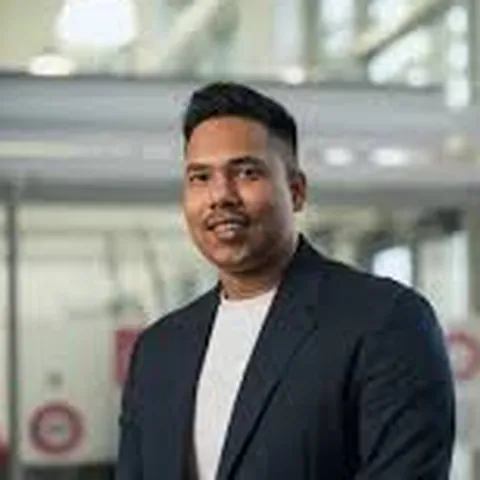
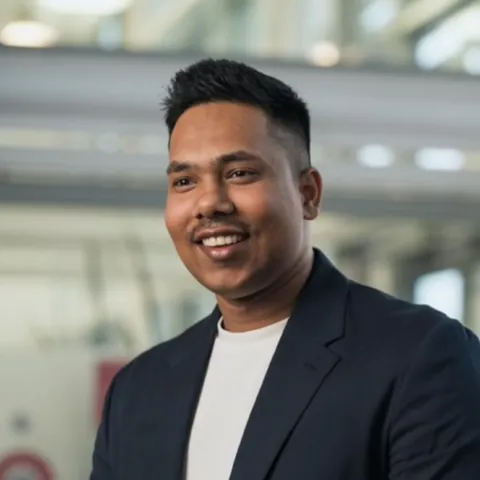
About page: new tagline, drop industrial street, sharper Alom photo
Claude-Session: https://claude.ai/code/session_019mX7vV7EdFEzaZUFbazYDR

diff --git a/src/routes/about.tsx b/src/routes/about.tsx
@@ -8,13 +8,13 @@ export const Route = createFileRoute("/about")({
       {
         name: "description",
         content:
-          "Sentinel Vero started in 2025 on an industrial street in Caerphilly. Meet Joc, Alom, Fabrizio and Cai, the team building operational software for fire and security businesses.",
+          "Sentinel Vero started in 2025 in Caerphilly. Meet Joc, Alom, Fabrizio and Cai, the team building operational software for fire and security businesses.",
       },
       { property: "og:title", content: "Our story | Sentinel Vero" },
       {
         property: "og:description",
         content:
-          "Four people, one industrial street in Caerphilly, and a live fire and security business to test every idea against.",
+          "Four people in Caerphilly, one solution, and a live fire and security business to test every idea against.",
       },
       { property: "og:type", content: "website" },
       { name: "twitter:card", content: "summary_large_image" },
@@ -121,7 +121,7 @@ function AboutPage() {
               <MapPin className="size-3.5" /> Caerphilly, 2025
             </p>
             <h1 className="mt-5 text-balance font-display text-5xl font-semibold leading-[0.98] md:text-7xl">
-              Four people. One industrial street. One problem worth fixing.
+              4 people, 1 solution
             </h1>
             <p className="mx-auto mt-7 max-w-2xl text-lg leading-8 text-muted-ink">
               Sentinel Vero is practical operational software for fire, security and field service
@@ -158,7 +158,7 @@ function AboutPage() {
           <div className="lg:sticky lg:top-28 lg:self-start">
             <p className="vh-eyebrow text-mint">Our story</p>
             <h2 className="mt-4 text-balance font-display text-4xl font-semibold leading-tight md:text-5xl">
-              It started on an industrial street in Caerphilly.
+              It started in Caerphilly.
             </h2>
           </div>
           <div className="space-y-6 text-lg leading-8 text-muted-ink">
